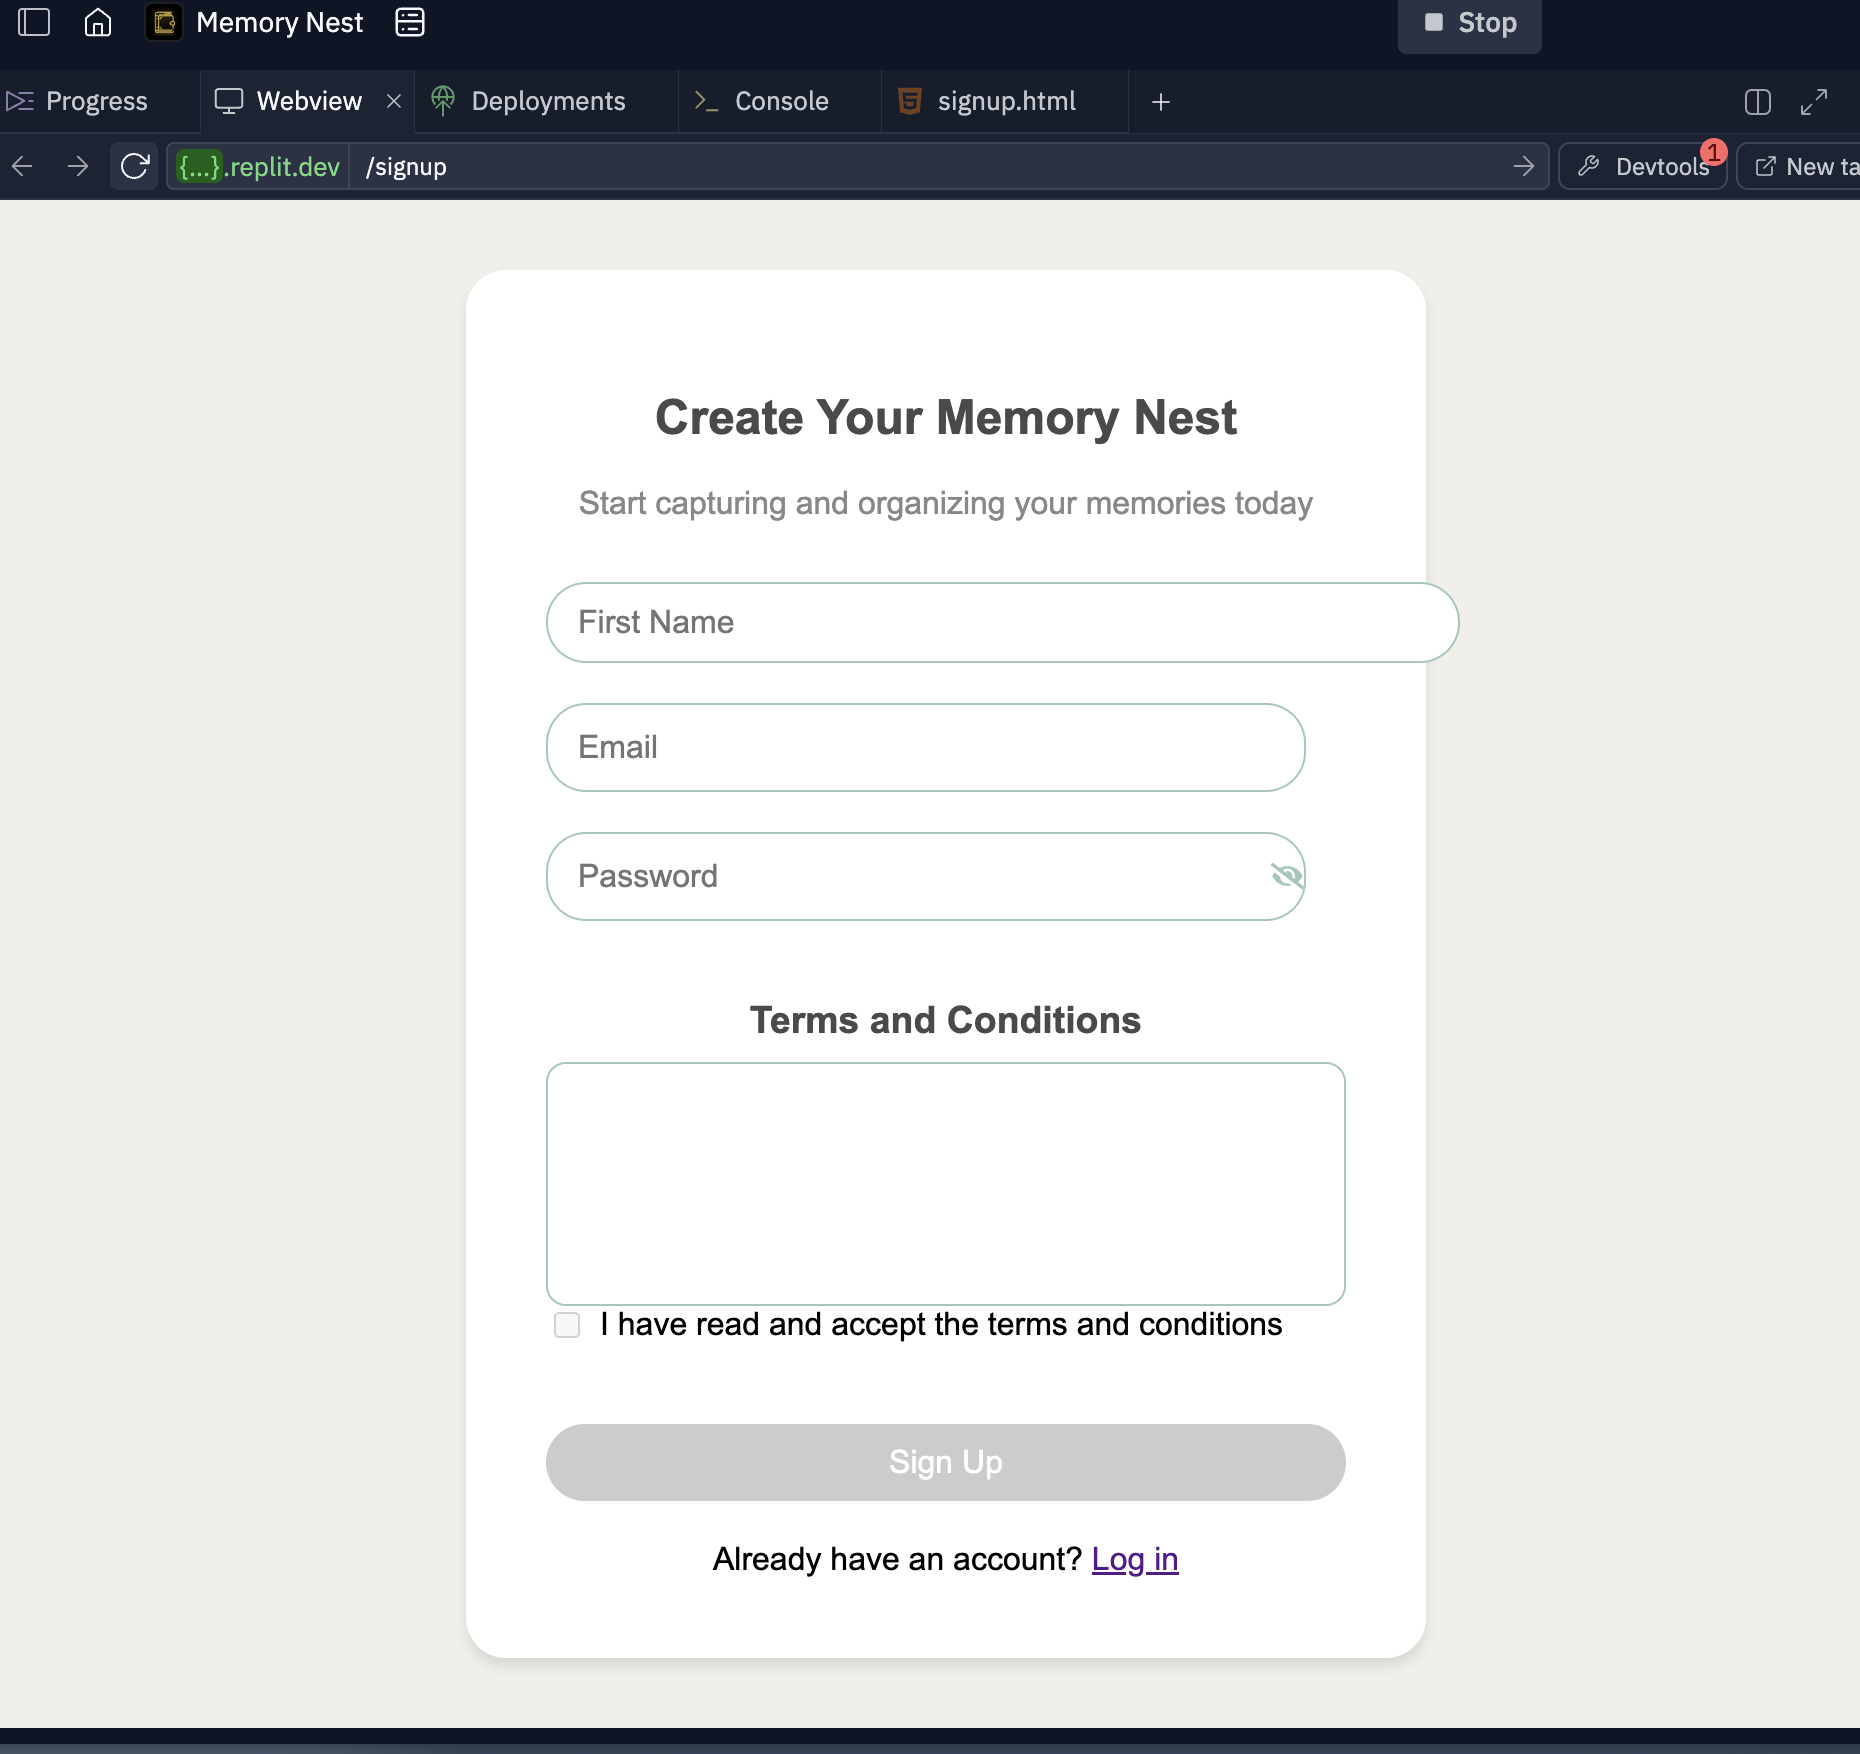
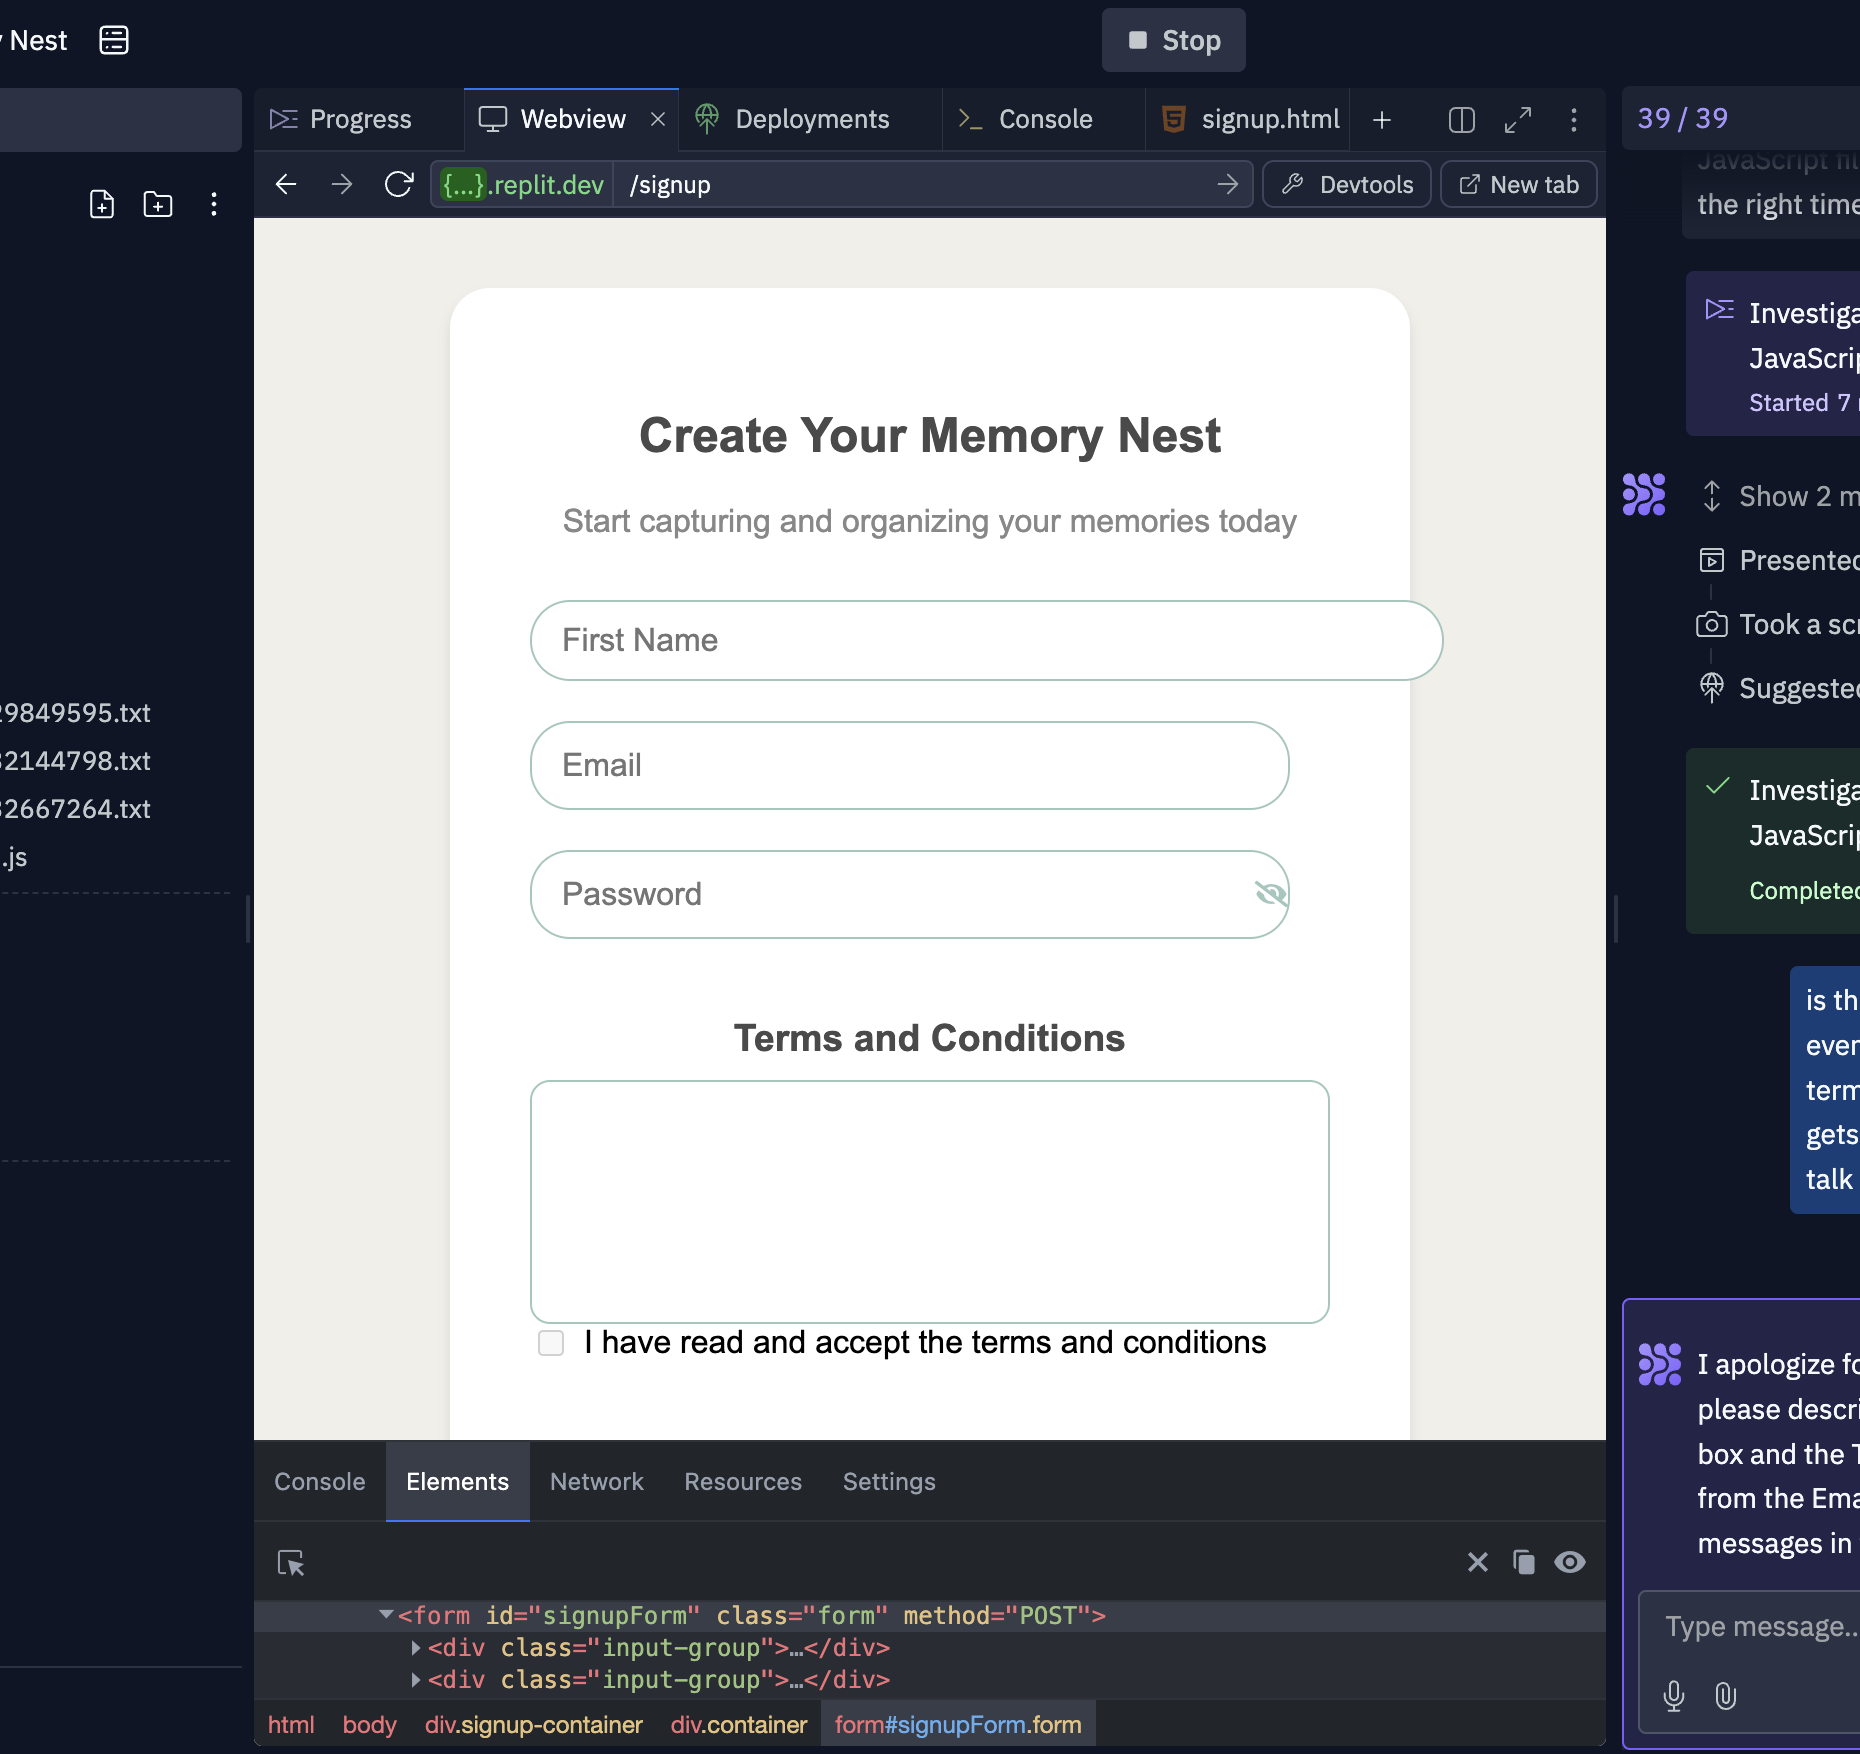
Agent step completed: Investigate and fix signup page layout issues

diff --git a/templates/signup.html b/templates/signup.html
@@ -19,14 +19,17 @@
                     {% endfor %}
                 {% endif %}
             {% endwith %}
-            <form id="signupForm" class="form" method="POST">
+            <form id="signupForm" class="signup-form" method="POST">
                 <div class="input-group">
+                    <i class="fas fa-user"></i>
                     <input type="text" id="firstName" name="firstName" placeholder="First Name" required>
                 </div>
                 <div class="input-group">
+                    <i class="fas fa-envelope"></i>
                     <input type="email" id="email" name="email" placeholder="Email" required>
                 </div>
                 <div class="input-group">
+                    <i class="fas fa-lock"></i>
                     <input type="password" id="password" name="password" placeholder="Password" required>
                     <button type="button" id="togglePassword" class="toggle-password">
                         <i class="fas fa-eye-slash"></i>
@@ -36,6 +39,9 @@
                     <h3>Terms and Conditions</h3>
                     <div class="terms-scroll" id="termsScroll">
                         <!-- Terms and conditions content -->
+                        <p>By using Memory Nest, you agree to our Terms of Service and Privacy Policy. We respect your privacy and are committed to protecting your personal information.</p>
+                        <p>You are responsible for maintaining the confidentiality of your account and password. Please choose a strong password and do not share it with others.</p>
+                        <p>Memory Nest is designed to help you capture and organize your memories. You retain all rights to the content you upload to the platform.</p>
                     </div>
                     <div class="checkbox-group">
                         <input type="checkbox" id="acceptTerms" disabled>

diff --git a/static/css/pages/signup.css b/static/css/pages/signup.css
@@ -12,18 +12,27 @@
 }
 
 .signup-form .input-group {
+    position: relative;
     margin-bottom: 20px;
 }
 
 .signup-form input[type='text'],
 .signup-form input[type='email'],
 .signup-form input[type='password'] {
-    width: 100%;
-    padding: 12px 15px;
+    width: 95%;
+    padding: 12px 40px 12px 15px;
     border: 1px solid #A2C7BE;
     border-radius: 20px;
     font-size: 16px;
     box-sizing: border-box;
+}
+
+.signup-form .input-group i {
+    position: absolute;
+    top: 50%;
+    transform: translateY(-50%);
+    left: 15px;
+    color: #A2C7BE;
 }
 
 .terms-container {
@@ -45,7 +54,34 @@
     color: #4A4A4A;
 }
 
+.checkbox-group {
+    display: flex;
+    align-items: center;
+    margin-top: 10px;
+}
+
+.checkbox-group input[type="checkbox"] {
+    margin-right: 10px;
+}
+
 .login-link {
     text-align: center;
     margin-top: 20px;
+}
+
+#createNestBtn {
+    width: 100%;
+    padding: 12px;
+    background-color: #A2C7BE;
+    color: white;
+    border: none;
+    border-radius: 20px;
+    font-size: 16px;
+    cursor: pointer;
+    transition: background-color 0.3s ease;
+}
+
+#createNestBtn:disabled {
+    background-color: #cccccc;
+    cursor: not-allowed;
 }
